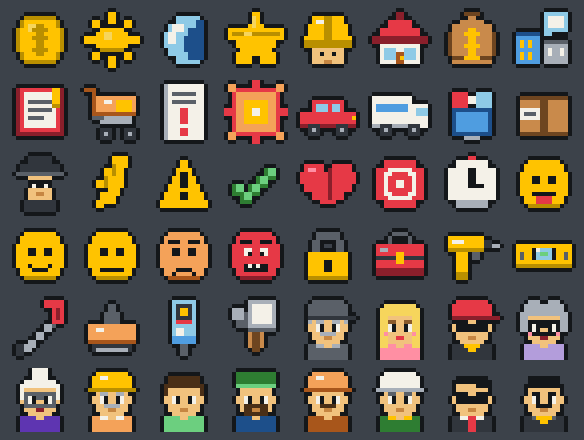
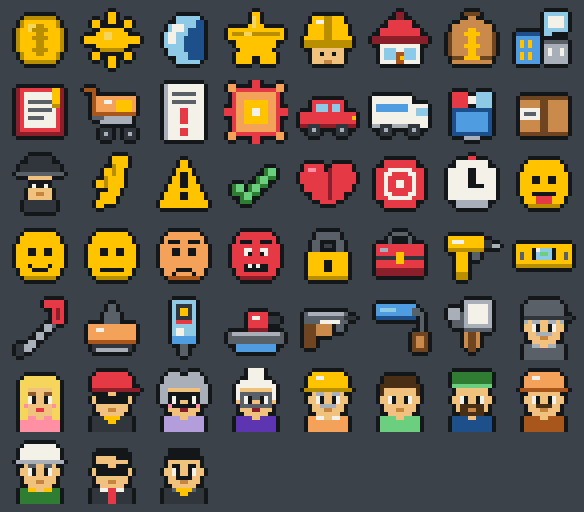
Drivers and tools in balance simulation, tool coverage for all jobs, pay scale retune, gameplay plan
Claude-Session: https://claude.ai/code/session_01UE8Y1PZ7tTwDRuFnCxBfdP

diff --git a/tools/balans2.js b/tools/balans2.js
@@ -4,7 +4,7 @@ const F = require('../prototypes/janusz/fuszerka.js'), C = require('../prototype
 const T = require('../prototypes/janusz/terminy.js'), B = require('../prototypes/janusz/bus.js'), Z = require('../prototypes/janusz/zmeczenie.js');
 const W = require('../prototypes/janusz/wypalenie.js'), K = require('../prototypes/janusz/klienci.js'), Sz = require('../prototypes/janusz/szkolenia.js'), U = require('../prototypes/janusz/ubezpieczenie.js'), O = require('../prototypes/janusz/osiedle.js');
 const J = require('../prototypes/janusz/jobs.js'), { JOBS, CLIENTS } = J, Sur = require('./niespodzianki.js');
-const E = require('../prototypes/janusz/ekipa.js'), Sw = require('../prototypes/janusz/swiat.js'), Fin = require('../prototypes/janusz/finanse.js');
+const Al = require('../prototypes/janusz/alledrogo.js'), E = require('../prototypes/janusz/ekipa.js'), Sw = require('../prototypes/janusz/swiat.js'), Fin = require('../prototypes/janusz/finanse.js');
 const lcg = s => () => (s = (s * 1664525 + 1013904223) % 4294967296) / 4294967296;
 const DAYS = 60;
 
@@ -15,9 +15,9 @@ function run(pol, seed) {
   let clock = start, money = pol.start != null ? pol.start : 500, fat = 10, burn = 0, bus = B.fresh(), rel = {}, certs = {}, oc = U.toggle(U.fresh(), !!pol.oc), stars = [], rival = 25, jobsDone = 0, hoursWorked = 0, waited = 0;
   const m = { jobs: 0, income: 0, costs: 0, claims: 0, breakdowns: 0, naps: 0, late: 0, lost: 0, sleeps: 0, cutsGiven: 0, certCost: 0, ocPaid: 0, ocRecv: 0, starsSum: 0, fatSum: 0 };
   const hq = () => Object.assign(SIT.fresh(), { tier, assets: { bus: busLvl } });
-  const rt = () => SIT.rating(hq(), hist, stars, 0, 0.3);
+  const rt = () => SIT.rating(hq(), hist, stars, 0, Al.toolScore(inv));
   const rating = () => rt().stars;
-  let pendingClaim = null, hist = [], crew = [], fin = Fin.fresh(), hired = 0, loanTried = 0; Object.assign(m, { wages: 0, interest: 0, quits: 0, loan: 0 });
+  let pendingClaim = null, hist = [], crew = [], fin = Fin.fresh(), hired = 0, loanTried = 0, inv = pol.tools === 'none' ? [] : [Al.starterKit()], market = null, orders = [], world = Sw.newWorld(); Object.assign(m, { toolBreaks: 0, toolSpend: 0, accidents: 0, accCost: 0, fines: 0, outJobs: 0, wages: 0, interest: 0, quits: 0, loan: 0 });
   const spend = (cat, v) => { money -= v; m.costs += v; };
   while (clock - start < DAYS * 1440) {
     // sen
@@ -41,6 +41,13 @@ function run(pol, seed) {
     }
     if (pol.crew && crew.length < (pol.crewMax || 2) && hired < E.CANDIDATES.length) { const c = E.CANDIDATES[hired]; if (money >= c.wage * 4 + 300) { money -= c.wage; m.costs += c.wage; crew.push(E.newWorker(c)); hired++; ev['ekipa: ' + c.name] = dayNow(); } }
     if (pol.loan && !loanTried) { const L = Fin.LENDERS[pol.loan], amt = Math.min(pol.loanAmt || L.max, L.max), t = Fin.takeLoan(fin, pol.loan, amt, rating()); if (t.ok) { fin = t.fin; money += t.cash; m.loan = t.cash; loanTried = 1; ev['pożyczka ' + L.id] = dayNow(); } }
+    if (pol.tools === 'buy' || pol.tools === 'shop') {
+      market = Al.refresh(market, Math.floor((clock - start) / 1440));
+      for (const it of inv.slice()) if (it.status !== 'sprawny' && money > Al.repairCost(it) * 2 + 150) { const rp = Al.repair(it, money, r); if (rp.ok) { money -= rp.cost; m.toolSpend += rp.cost; m.costs += rp.cost; inv = inv.map(x => x.id === it.id ? rp.item : x); } }
+      const have = new Set(inv.filter(x => x.status === 'sprawny').map(x => x.type).concat(orders.map(o => o.type)));
+      const cand = market.listings.filter(l => l.mode === 'buynow' && (pol.tools !== 'shop' || l.seller.kind === 'sklep') && !have.has(l.type) && money >= l.price + l.shipping + 250).sort((a, b) => (Al.TYPES[b.type].jobs.length * Al.TYPES[b.type].acc) / (b.price + b.shipping) - (Al.TYPES[a.type].jobs.length * Al.TYPES[a.type].acc) / (a.price + a.shipping))[0];
+      if (cand) { const bn = Al.buyNow(cand, money); if (bn.ok) { money -= bn.cost; m.toolSpend += bn.cost; m.costs += bn.cost; orders.push(bn.order); market = Al.removeListing(market, cand.id); } }
+    }
     // czekanie na telefon
     for (;;) { const night = C.isNight(clock + 60); const p = Math.min(0.6, J.callChance(night, rating(), waited) + (pol.noTrust ? 0 : Math.min(0.06, Object.values(rel).filter(x => x.trust >= 50).length * 0.02))); clock += 60; fat = Z.rest(fat, 60, false); if (r() < p && r() >= W.missCall(burn)) { waited = 0; break; } waited++; if (clock - start >= DAYS * 1440) break; }
     if (clock - start >= DAYS * 1440) break;
@@ -50,23 +57,39 @@ function run(pol, seed) {
     let price = 1;
     if (r() < K.contestChance(rival, O.strength({ rating: rating(), tier: 0 }), trust)) { const res = K.contest(pol.contest, trust, r); if (!res.won) { m.lost++; rival += 1.5; continue; } price = res.priceMult; if (price < 1) m.cutsGiven++; }
     const job = JOBS[call.job], cl = CLIENTS[call.client], md = C.mods(night), cm = Sz.modsFor(certs, job.id), dueSpec = due ? T.make(job.deadline, jobStart, due, night) : null;
-    // dojazd
+    // dojazd: bus + kierowca (właściciel, pomocnik albo kurier) z wypadkami i mandatami ze swiat.js
     let timeAdj = 3, transport = 0; const tm = Z.timeMult(fat) * W.timeMult(burn);
-    if (!bus.broken && B.rollBreakdown(bus, busLvl, night, r)) { m.breakdowns++; const res = B.resolve('laweta', bus, night, r); transport += res.cost; timeAdj += res.timeAdj; bus = res.bus; }
-    if (!bus.broken) bus = B.drive(bus, busLvl, night); else { transport += 70; timeAdj += 2; }
-    // robota
+    const drv = pol.driver || 'owner';
     let helper = null, hs = 'trzezwy', he = null;
     if (crew.length) { const w = crew.find(x => !(x.outJobs > 0)); if (w) { hs = Sw.rollState(w, { night, paydayEve: jobsDone % 3 === 2 }, r); if (E.attendance(w, r, { night }) === 'present') { helper = w; he = E.helperEffect(w, hs); } } }
+    world.night = night; world.accMult = SIT.effects(hq()).accMult;
+    const mode = drv === 'courier' ? 'courier' : drv === 'worker' && helper ? 'worker' : 'owner';
+    if (mode !== 'courier') {
+      if (!bus.broken && B.rollBreakdown(bus, busLvl, night, r)) { m.breakdowns++; const res = B.resolve('laweta', bus, night, r); transport += res.cost; timeAdj += res.timeAdj; bus = res.bus; }
+      if (!bus.broken) bus = B.drive(bus, busLvl, night); else { transport += 70; timeAdj += 2; }
+    }
+    if (!(mode !== 'courier' && bus.broken)) {
+      const dr = Sw.resolveDrive(mode === 'worker' ? helper : null, mode === 'worker' ? hs : 'trzezwy', world, mode, r);
+      transport += dr.cost; timeAdj += dr.timeAdj; Sw.tickWorld(world, dr.heatDelta);
+      if (dr.accident) { m.accidents++; m.accCost += dr.cost; } else if (dr.police) { m.fines += dr.cost; }
+      if (dr.claim) pendingClaim = dr.claim;
+      if (mode === 'worker' && dr.incident) { const out = Sw.applyAftermath(helper, 'ostrzez', dr); transport -= out.money || 0; if (out.worker) crew = crew.map(w => w.id === helper.id ? out.worker : w); }
+      if (mode === 'worker' && Object.keys(dr.driverPatch).length) { crew = crew.map(w => w.id === helper.id ? Object.assign({}, w, dr.driverPatch) : w); if (dr.driverPatch.outJobs) { m.outJobs++; helper = null; he = null; } }
+    }
+    // robota
     const style = dueSpec && dueSpec.kind === 'ostry' && pol.rushSkips ? 'mieszanie' : pol.style;
     const pick = i => style === 'solid' ? 'dobrze' : style === 'mieszanie' ? (i % 2 ? 'skrot' : 'dobrze') : 'fusz';
-    let defects = []; const tmH = he ? he.timeFactor : 1;
+    const tools = Al.forJob(inv, job.id); let working = tools.slice(), toolDefects = [];
+    for (const t of tools) if (r() < Al.failChance(t)) { working = working.filter(x => x.id !== t.id); inv = inv.map(x => x.id === t.id ? Al.breakItem(x) : x); m.toolBreaks++; timeAdj += 4; toolDefects.push({ label: 'narzędzie padło w trakcie roboty', sev: 1.5, vis: 0.5 }); }
+    const tb = Al.totalBonus(working);
+    let defects = toolDefects.slice(); const tmH = he ? he.timeFactor : 1;
     if (helper) { const sl = E.sloppy(helper, hs, r); if (sl) defects.push(sl); if (E.walksOut(helper, r)) { defects.push({ label: 'bałagan po ekipie', sev: 1.5, vis: 0.6 }); timeAdj += 6; crew = crew.map(w => w.id === helper.id ? Object.assign({}, w, { mood: Math.max(0, w.mood - 10) }) : w); } }
     if (r() < Z.nodChance(fat)) { defects.push({ label: 'zasnął', sev: 2, vis: 0.5 }); m.naps++; }
-    const picks = job.steps.map((s, i) => ({ stepId: s.id, optionId: pick(i), accuracy: Math.max(0, Math.min(1, 0.7 + W.accMod(burn) + (r() - 0.5) * 0.3 - (night ? md.accPenalty : 0) + Z.accMod(fat) + cm.acc + (he ? he.accBonus : 0))) }));
+    const picks = job.steps.map((s, i) => ({ stepId: s.id, optionId: pick(i), accuracy: Math.max(0, Math.min(1, 0.7 + W.accMod(burn) + (r() - 0.5) * 0.3 - (night ? md.accPenalty : 0) + Z.accMod(fat) + cm.acc + (he ? he.accBonus : 0) + tb.acc)) }));
     const rtNow = rt(), payMult = rtNow.payMult * md.payMult * (dueSpec ? dueSpec.pay : 1) * (pol.noTrust ? 1 : K.payMult(trust)) * cm.pay * price;
     const sur = pol.noSur ? { time: 0, cost: 0, defects: [] } : Sur.roll(job.id, style === 'mieszanie' ? 'mieszanie' : style === 'solid' ? 'solid' : 'fusz', r, tm);
     defects = defects.concat(sur.defects);
-    const res = F.evaluate(Object.assign({}, job, { base: Math.round(job.base * call.mult) }), picks, cl, { payMult, satBonus: rtNow.satBonus, attentionMult: md.attention, hazardMult: md.hazard * cm.hazard, time: sur.time + timeAdj + Math.round(job.steps.reduce((a, st, i) => a + st.options.find(o => o.id === pick(i)).time, 0) * (tm * tmH - 1) * 10) / 10, defects });
+    const res = F.evaluate(Object.assign({}, job, { base: Math.round(job.base * call.mult) }), picks, cl, { payMult, satBonus: rtNow.satBonus, attentionMult: md.attention, hazardMult: md.hazard * cm.hazard * tb.hazardMult, time: sur.time + timeAdj + Math.round(job.steps.reduce((a, st, i) => a + st.options.find(o => o.id === pick(i)).time, 0) * (tm * tmH * (1 - tb.time) - 1) * 10) / 10, defects });
     const minutes = C.minutes(Math.max(1, res.time), night), te = T.evaluate(dueSpec, minutes, res.payout);
     if (te.penalty) m.late++;
     const tax = res.payout * 0.1, income = res.payout + te.bonus;
@@ -76,7 +99,9 @@ function run(pol, seed) {
     if (pendingClaim && r() < 0.5) { const cv = U.cover(oc, pendingClaim); oc = cv.oc; money -= cv.you; m.costs += cv.you; m.claims += cv.you; m.ocRecv += cv.insurer; pendingClaim = null; }
     // koniec zlecenia
     clock = jobStart + minutes; fat = Z.gain(fat, minutes, night); burn = W.afterJob(burn, fat, night); m.burnSum = (m.burnSum || 0) + burn; hoursWorked += minutes / 60;
-    rel = K.afterJob(rel, call.client, res.stars, O.GOSSIP[call.client]); stars.push(res.stars); hist.push({ index: res.index }); hist = hist.slice(-12); crew = Sw.tickWorkers(crew); m.jobs++; m.starsSum += res.stars; m.fatSum += fat; jobsDone++;
+    rel = K.afterJob(rel, call.client, res.stars, O.GOSSIP[call.client]); for (const t of working) inv = inv.map(x => x.id === t.id ? Al.wear(x) : x);
+    { const dl = Al.tickOrders(orders, r); orders = dl.orders; for (const a of dl.arrived) { if (a.lost) money += Al.refundLost(a.order).refund; else inv.push(a.item); } }
+    stars.push(res.stars); hist.push({ index: res.index }); hist = hist.slice(-12); crew = Sw.tickWorkers(crew); m.jobs++; m.starsSum += res.stars; m.fatSum += fat; jobsDone++;
     if (jobsDone % 3 === 0) {
       if (crew.length) { const sg = E.sideGigs(crew, r); money += sg.total; m.income += sg.total; m.gigs = (m.gigs || 0) + sg.total; }
       if (crew.length) { const pay = pol.crew === 'skimp' ? Object.fromEntries(crew.map(w => [w.id, Math.round(w.wage * 0.6)])) : E.defaultPay(crew, Math.floor(money)); const ap = E.applyPay(crew, pay, { patienceBonus: 0 }); money -= ap.spent; m.costs += ap.spent; m.wages += ap.spent; crew = ap.workers; const before = crew.length; crew = crew.filter(w => (w.strikes || 0) < 2); m.quits += before - crew.length; }
@@ -84,7 +109,7 @@ function run(pol, seed) {
         if (money > Fin.debt(fin) * 1.5 + 600 && fin.loans.length) for (const l of fin.loans.slice()) { const rp = Fin.repay(fin, l.id, l.principal, Math.floor(money)); if (rp.ok) { fin = rp.fin; money -= rp.paid; } } } if (pol.progress) { const up = SIT.TIERS[tier].upkeep + busLvl * 0 + (busLvl ? SIT.ASSETS.bus.levels[busLvl - 1].upkeep : 0); money -= up; m.costs += up; } if (oc.active) { const pr = U.premium(oc); money -= pr; m.costs += pr; m.ocPaid += pr; } oc = U.decay(oc); rival += 1.2; }
     if (money < 0) money = 0;
   }
-  return { ev, crewN: crew.length, debt: Fin.debt(fin), net: money - Fin.debt(fin), rating: rt().stars, perDay: (money - (pol.start != null ? pol.start : 500)) / DAYS, perHour: m.income - m.costs > -1e9 ? (money - (pol.start != null ? pol.start : 500)) / Math.max(1, hoursWorked) : 0, m, money };
+  return { ev, inv: inv.length, crewN: crew.length, debt: Fin.debt(fin), net: money - Fin.debt(fin), rating: rt().stars, perDay: (money - (pol.start != null ? pol.start : 500)) / DAYS, perHour: m.income - m.costs > -1e9 ? (money - (pol.start != null ? pol.start : 500)) / Math.max(1, hoursWorked) : 0, m, money };
 }
 const avg = (a, f) => a.reduce((s, x) => s + f(x), 0) / a.length;
 function scenario(name, pol, N = 150) {
@@ -125,6 +150,13 @@ console.log('\n— pożyczki (start od zera, 60 dni; zysk netto = kasa minus dł
 sc2('bez pożyczki', base2); for (const [l, a] of [['kuzyn', 1500], ['bank', 5000], ['gienek', 3000]]) sc2('pożyczka: ' + l + ' ' + a + ' zł', Object.assign({}, base2, { loan: l, loanAmt: a }));
 console.log('\n— reputacja i fuszerka (prawdziwa ocena firmy z siedziby.js)');
 for (const [n2, st] of [['mieszany', 'mieszanie'], ['solidny', 'solid'], ['fuszerka', 'fusz']]) sc2('styl ' + n2, Object.assign({}, base2, { style: st, rushSkips: st !== 'solid' }));
+
+console.log('\n— kierowcy (wypadki i mandaty ze swiat.js) i narzędzia z Alledrogo');
+const sc3 = (name, pol, N = 100) => { const res = []; for (let i = 0; i < N; i++) res.push(run(pol, 1300 + i)); const g = f => avg(res, f);
+  console.log(name.padEnd(38), String(Math.round(g(x => x.perDay))).padStart(5), 'zł/d  ★', g(x => x.rating).toFixed(2), ' wypadki', g(x => x.m.accidents).toFixed(1).padStart(5), '(', Math.round(g(x => x.m.accCost)), 'zł) mandaty', Math.round(g(x => x.m.fines)).toString().padStart(5), ' wyp.ekipy', g(x => x.m.outJobs).toFixed(1), ' narzędzia: awarie', g(x => x.m.toolBreaks).toFixed(1), 'wydano', Math.round(g(x => x.m.toolSpend)), ' netto', Math.round(g(x => x.net))); };
+const crew2 = Object.assign({}, base2, { crew: 'fair', crewMax: 2 });
+sc3('kierowca: ty sam', Object.assign({}, crew2, { driver: 'owner' })); sc3('kierowca: pomocnik', Object.assign({}, crew2, { driver: 'worker' })); sc3('kierowca: kurier (70 zł)', Object.assign({}, crew2, { driver: 'courier' }));
+sc3('narzędzia: brak', Object.assign({}, base2, { tools: 'none' })); sc3('narzędzia: tylko zestaw startowy', Object.assign({}, base2, { tools: 'starter' })); sc3('narzędzia: kupuje wszędzie (okazje)', Object.assign({}, base2, { tools: 'buy' })); sc3('narzędzia: tylko ze sklepu (bezpiecznie)', Object.assign({}, base2, { tools: 'shop' }));
 
 }
 module.exports = { run, avg };

diff --git a/prototypes/janusz/alledrogo.js b/prototypes/janusz/alledrogo.js
@@ -18,19 +18,22 @@
   const between = (lo, hi, rng) => Math.round(lo + (hi - lo) * rng());
 
   /* Co wolno kupić. jobs = na jakie zlecenia pomaga. hazardMult = redukcja zagrożenia wad (np. miernik prądu). */
-  const ALL_JOBS = ['kran', 'sciana', 'gniazdko', 'polka'];
+  const ALL_JOBS = ['kran', 'sciana', 'gniazdko', 'polka', 'syfon', 'drzwi', 'plytki', 'grzejnik', 'okno', 'malowanie'];
   const TYPES = {
-    zestaw: { id: 'zestaw', name: 'Zestaw narzędzi ręcznych', jobs: ALL_JOBS, base: 150, acc: 0.05, time: 0.04, brands: ['Walizka majstra', 'Zestaw 100 elementów', 'Skrzynka „Złota rączka”'] },
-    wiertarka: { id: 'wiertarka', name: 'Wiertarka udarowa', jobs: ['polka', 'sciana'], base: 180, acc: 0.07, time: 0.05, brands: ['Turbo-Wiert 3000', 'Hammer-Max', 'Ryś Pro'] },
-    poziomica: { id: 'poziomica', name: 'Poziomica laserowa', jobs: ['polka'], base: 120, acc: 0.10, time: 0.04, brands: ['Laser-Prosto', 'Libelka X', 'Równo.pl'] },
-    klucze: { id: 'klucze', name: 'Klucze do rur', jobs: ['kran'], base: 90, acc: 0.08, time: 0.06, brands: ['Hydro-Klucz', 'Rurman', 'Zestaw „Złota rączka”'] },
-    szlifierka: { id: 'szlifierka', name: 'Szlifierka do gipsu', jobs: ['sciana'], base: 220, acc: 0.08, time: 0.06, brands: ['Gładź-Max', 'Szlif-Turbo', 'Pyłomat'] },
-    probnik: { id: 'probnik', name: 'Miernik napięcia', jobs: ['gniazdko'], base: 110, acc: 0.08, time: 0.04, hazardMult: 0.6, brands: ['Volt-Test', 'Prąd-Stop', 'Mierzymy.pl'] },
-    szpachle: { id: 'szpachle', name: 'Zestaw szpachli', jobs: ['sciana'], base: 40, acc: 0.05, time: 0.03, brands: ['Szpachlarz', 'Gładko', 'Zestaw 12w1'] },
+    zestaw: { id: 'zestaw', name: 'Zestaw narzędzi ręcznych', jobs: ALL_JOBS, base: 150, acc: 0.075, time: 0.06, brands: ['Walizka majstra', 'Zestaw 100 elementów', 'Skrzynka „Złota rączka”'] },
+    wiertarka: { id: 'wiertarka', name: 'Wiertarka udarowa', jobs: ['polka', 'sciana', 'drzwi', 'okno'], base: 180, acc: 0.105, time: 0.075, brands: ['Turbo-Wiert 3000', 'Hammer-Max', 'Ryś Pro'] },
+    poziomica: { id: 'poziomica', name: 'Poziomica laserowa', jobs: ['polka', 'plytki', 'drzwi'], base: 120, acc: 0.15, time: 0.06, brands: ['Laser-Prosto', 'Libelka X', 'Równo.pl'] },
+    klucze: { id: 'klucze', name: 'Klucze do rur', jobs: ['kran', 'syfon', 'grzejnik'], base: 90, acc: 0.12, time: 0.09, brands: ['Hydro-Klucz', 'Rurman', 'Zestaw „Złota rączka”'] },
+    szlifierka: { id: 'szlifierka', name: 'Szlifierka do gipsu', jobs: ['sciana', 'drzwi', 'malowanie'], base: 220, acc: 0.12, time: 0.09, brands: ['Gładź-Max', 'Szlif-Turbo', 'Pyłomat'] },
+    probnik: { id: 'probnik', name: 'Miernik napięcia', jobs: ['gniazdko'], base: 110, acc: 0.12, time: 0.06, hazardMult: 0.6, brands: ['Volt-Test', 'Prąd-Stop', 'Mierzymy.pl'] },
+    przecinarka: { id: 'przecinarka', name: 'Przecinarka do płytek', jobs: ['plytki'], base: 260, acc: 0.135, time: 0.09, brands: ['Tnij-Prosto', 'Glazur-Max', 'Płytkomat'] },
+    pistolet: { id: 'pistolet', name: 'Pistolet do silikonu', jobs: ['okno', 'syfon', 'plytki'], base: 60, acc: 0.09, time: 0.06, brands: ['Silikon-Strzał', 'Fuga-Pro', 'Uszczelniacz 3000'] },
+    walki: { id: 'walki', name: 'Wałki i pędzle', jobs: ['malowanie'], base: 70, acc: 0.12, time: 0.075, brands: ['Malarz Pro', 'Zestaw „Pędzel i wałek”', 'Kolor-Max'] },
+    szpachle: { id: 'szpachle', name: 'Zestaw szpachli', jobs: ['sciana', 'malowanie', 'plytki'], base: 40, acc: 0.075, time: 0.045, brands: ['Szpachlarz', 'Gładko', 'Zestaw 12w1'] },
   };
   const CLASSES = [
-    { id: 'nowe', name: 'nowe', price: 1.0, cond: [100, 100], life: [40, 60] },
-    { id: 'jak_nowe', name: 'jak nowe', price: 0.8, cond: [88, 100], life: [20, 40] },
+    { id: 'nowe', name: 'nowe', price: 1.0, cond: [100, 100], life: [80, 120] },
+    { id: 'jak_nowe', name: 'jak nowe', price: 0.8, cond: [88, 100], life: [40, 80] },
     { id: 'uzywane', name: 'używane', price: 0.55, cond: [55, 90], life: [8, 20] },
     { id: 'po_przejsciach', name: 'po przejściach', price: 0.3, cond: [25, 60], life: [2, 9] },
     { id: 'na_czesci', name: 'na części', price: 0.12, cond: [0, 20], life: [0, 1] },
@@ -154,7 +157,7 @@
   const effTier = item => (item.fake ? Math.max(1, item.tier - 1) : item.tier);
   /* Premia narzędzia do zlecenia. */
   function bonus(item) {
-    if (item.status !== 'sprawny') return { acc: 0, time: 0, hazardMult: 1 };
+    if (item.status !== 'sprawny') return { acc: 0.0, time: 0.0, hazardMult: 1 };
     const T = TYPES[item.type], f = TIER_MULT[effTier(item) - 1] * (0.5 + 0.5 * clamp(item.cond, 0, 100) / 100);
     return { acc: T.acc * f, time: T.time * f, hazardMult: T.hazardMult || 1 };
   }

diff --git a/tests/alledrogo.test.js b/tests/alledrogo.test.js
@@ -167,11 +167,11 @@ t('opłacalność: używane po przejściach bywają okazją albo pułapką, stat
 });
 
 t('jeden system narzędzi: zestaw ręczny pasuje do wszystkich zleceń, makeItem tworzy sprawny przedmiot', () => {
-  assert.deepStrictEqual(A.TYPES.zestaw.jobs, ['kran', 'sciana', 'gniazdko', 'polka']);
+  assert.deepStrictEqual(A.TYPES.zestaw.jobs, A.ALL_JOBS); assert(A.ALL_JOBS.length >= 10);
   const it = A.makeItem({ brand: 'Walizka dziadka', tier: 2, cond: 65 });
   assert(it.status === 'sprawny' && it.unboxed && it.uses === 0 && it.cond === 65 && it.id > 100000);
   assert(A.makeItem({}).id !== A.makeItem({}).id);
-  for (const j of ['kran', 'sciana', 'gniazdko', 'polka']) assert.strictEqual(A.forJob([it], j).length, 1, j);
+  for (const j of A.ALL_JOBS) assert.strictEqual(A.forJob([it], j).length, 1, j);
 });
 
 t('pokrycie i jakość ekwipunku: więcej i lepsze narzędzia dają wyższy wynik, zepsute nie liczą się', () => {
@@ -194,7 +194,7 @@ t('serwis: sprawne wraca do 100%, zepsute naprawia się z 60% szansą i traci uk
 
 t('zestaw startowy: tani, pasuje do wszystkich zleceń, daje małą premię i szybko się zużywa; walizka dziadka jest lepsza', () => {
   const kit = A.starterKit(), suitcase = A.makeItem({ tier: 2, cond: 65, brand: 'Walizka dziadka', life: 25 });
-  for (const j of ['kran', 'sciana', 'gniazdko', 'polka']) assert.strictEqual(A.forJob([kit], j).length, 1, j);
+  for (const j of A.ALL_JOBS) assert.strictEqual(A.forJob([kit], j).length, 1, j);
   assert(kit.status === 'sprawny' && kit.unboxed && kit.tier === 1);
   assert(A.toolScore([kit]) > 0 && A.toolScore([kit]) < A.toolScore([suitcase]));
   assert(A.value(kit) < 100, 'wartość ' + A.value(kit));
@@ -204,4 +204,9 @@ t('zestaw startowy: tani, pasuje do wszystkich zleceń, daje małą premię i sz
   assert(A.starterKit().id !== A.starterKit().id);
 });
 
+t('narzędzia pokrywają wszystkie roboty z jobs.js, a każda specjalistyczna robota ma swoje narzędzie', () => {
+  const { JOBS } = require('../prototypes/janusz/jobs.js');
+  assert.deepStrictEqual(A.ALL_JOBS.slice().sort(), Object.keys(JOBS).sort());
+  for (const id of Object.keys(JOBS)) assert(Object.values(A.TYPES).filter(T => T.id !== 'zestaw' && T.jobs.indexOf(id) >= 0).length >= 1, 'brak narzędzia dla ' + id);
+});
 console.log('\n' + n + ' testów przeszło');

diff --git a/prototypes/janusz/pixel.js b/prototypes/janusz/pixel.js
@@ -80,6 +80,9 @@
     klucze: () => mk(16, 16, [R('r', 9, 1, 5, 2), R('r', 11, 2, 3, 5), R('G', 10, 7, 2, 1), R('g', 9, 7, 2, 2), R('g', 7, 9, 2, 2), R('g', 5, 11, 2, 2), R('g', 3, 12, 3, 2), R('d', 2, 12, 2, 3), R('R', 12, 3, 1, 3)]),
     szlifierka: () => mk(16, 16, [R('o', 2, 7, 12, 5), R('O', 2, 11, 12, 1), R('d', 3, 12, 10, 2), R('g', 4, 13, 8, 1), R('G', 6, 4, 4, 3), R('G', 7, 2, 2, 2), R('w', 4, 8, 2, 1)]),
     probnik: () => mk(16, 16, [R('c', 5, 1, 6, 11), R('b', 5, 10, 6, 2), R('d', 6, 2, 4, 4), R('y', 7, 3, 2, 2), R('G', 7, 12, 2, 3), R('r', 6, 6, 4, 1), R('w', 6, 8, 2, 2)]),
+    przecinarka: () => mk(16, 16, [R('G', 1, 9, 14, 3), R('g', 2, 9, 12, 1), R('r', 6, 4, 5, 5), R('R', 6, 8, 5, 1), R('d', 11, 5, 3, 2), R('w', 7, 5, 2, 1), R('b', 3, 12, 10, 2)]),
+    pistolet: () => mk(16, 16, [R('G', 2, 4, 11, 3), R('g', 3, 4, 9, 1), R('d', 12, 5, 3, 1), R('T', 2, 7, 3, 6), R('t', 5, 7, 4, 3), R('w', 6, 6, 5, 1), R('G', 10, 7, 2, 2)]),
+    walki: () => mk(16, 16, [R('b', 2, 2, 10, 4), R('B', 2, 5, 10, 1), R('c', 3, 3, 4, 1), R('G', 11, 3, 2, 2), R('G', 13, 4, 1, 6), R('T', 11, 9, 4, 5), R('t', 12, 10, 2, 3)]),
     szpachle: () => mk(16, 16, [R('g', 6, 1, 7, 8), R('w', 7, 2, 5, 5), R('G', 6, 8, 7, 1), R('T', 7, 9, 2, 5), R('t', 6, 9, 1, 4), R('t', 9, 9, 1, 4), R('G', 3, 4, 3, 4), R('g', 2, 3, 3, 3)]),
   };
 

diff --git a/prototypes/janusz/jobs.js b/prototypes/janusz/jobs.js
@@ -310,7 +310,7 @@
   };
 
   /* Skala wypłat: jedno pokrętło tempa progresji. Wszystkie stawki bazowe robót są mnożone przez nią przy wczytaniu. */
-  const PAY_SCALE = 1.25;
+  const PAY_SCALE = 1.4;
   for (const j of Object.values(JOBS)) j.base = Math.round(j.base * PAY_SCALE);
 
   /* Niespodzianki w trakcie roboty: po ukończeniu kroku `after` (od 0) z szansą `chance` wychodzi problem, który trzeba rozwiązać.

diff --git a/PLAN_ROZGRYWKI.md b/PLAN_ROZGRYWKI.md
@@ -1,0 +1,42 @@
+# Plan: dłuższa i bardziej rozbudowana rozgrywka (Janusz Biznesu)
+
+Stan na teraz: 10 rodzajów robót (4–6 kroków, 3–5 minut każda), niespodzianki z łańcuchami, siedziba, ekipa, bus, narzędzia, pożyczki, noc i terminy.
+Brakuje: długich celów w obrębie jednej sesji, wyborów strategicznych między zleceniami i powodu, by wracać po miesiącach gry.
+Symulacje (`tools/balans*.js`, `tools/tempo.js`) dają solidną podstawę do strojenia każdej fazy.
+
+## Faza A: Kontrakty (dłuższe poziomy) — największy zysk
+Kontrakt = kilka robót u jednego klienta w kolejnych dniach (np. „Remont łazienki”: hydraulik → płytki → drzwi → malowanie → odbiór).
+- **Dane:** `kontrakty.js`: lista etapów (id roboty, dzień względny, zależności), zaliczka, transze, kara za opóźnienie całości, premia za odbiór bez poprawek. Czysta logika + testy.
+- **Przebieg:** klient daje zaliczkę (część kasy z góry, to ratuje płynność), każdy etap to normalna robota (istniejące kroki i niespodzianki), pasek postępu kontraktu, wynik końcowy to średnia ocen etapów i zgłoszone usterki z wcześniejszych etapów (ukryte wady z płytek wychodzą przy malowaniu).
+- **Nowe decyzje:** kolejność etapów, ekipa przydzielona do etapu, czy brać drugi kontrakt równolegle, rezygnacja (kara).
+- **Długość:** kontrakt 3–5 etapów ≈ 15–25 minut gry. Poziomy z listy zostają jako szybkie zlecenia.
+- **Test akceptacji:** `tests/kontrakty.test.js`, symulacja: kontrakt opłaca się o 10–20% lepiej na godzinę niż pojedyncze zlecenia, ale z wyższą wariancją (kary).
+
+## Faza B: Równoległa ekipa i plan dnia
+- Ekipa wykonuje proste zlecenia bez gracza (jakość z umiejętności, nastroju i trzeźwości, wynik z `fuszerka.js`), gracz bierze trudne.
+- Kalendarz dnia z oknami czasowymi, dojazd zajmuje czas zależnie od lokalizacji (osiedle, miasto, wieś).
+- Test akceptacji: symulacja `tempo.js` z ekipą pokazuje przyspieszenie progresji o 20–40% bez zabicia roli gracza.
+
+## Faza C: Specjalizacje i przetargi
+- Drzewko umiejętności (hydraulika, elektryka, wykończenia, stolarka): kursy z `szkolenia.js` odblokowują kontrakty tego typu i przetargi.
+- Przetargi publiczne (szkoła, urząd): wymagają uprawnień i oceny firmy, płacą dużo, mają audyt jakości i kary. Daje cel dla siedziby 4–5.
+
+## Faza D: Rok i prestiż
+- Podsumowanie roku (grudzień): bilans, ranking osiedla, nagrody. „Nowa Gra+”: powrót z bonusem reputacji, nowa mapa/dzielnica.
+- Wydarzenia sezonowe (zima: awarie ogrzewania, lato: remonty) jako okna premii.
+
+## Kolejność i szacunek pracy
+A (2–3 sesje) → B (2) → C (2) → D (1). Po każdej: testy, symulacja, aktualizacja `JANUSZ_GDD.md`.
+
+# Jak to zrobić taniej (tokeny)
+
+1. **Najpierw specyfikacja, potem jedna sesja na fazę.** Ten plik jest kontekstem: nowa sesja czyta `AGENTS.md` + ten plik zamiast całej historii.
+2. **Dane zamiast kodu.** Nowa robota to głównie tekst opcji: trzymać w kompaktowej tabeli (`id | etykieta | czas | koszt | wady | fx`) i generować `jobs.js` skryptem. Daje to 3–5× mniej tokenów na robotę. Do zrobienia: `tools/nowa_robota.js` (tabela → JOBS + szkielet sceny + testy).
+3. **Sceny tylko wtedy, gdy trzeba.** Scena pixel art to najdroższy element. Dla kolejnych robót użyć wspólnych „klocków” (pokój + obiekt + znacznik stanu) albo tylko 2–3 stanów zamiast 12.
+4. **Jeden duży patch z asercjami zamiast wielu małych edycji** i czytanie plików fragmentami (`sed -n`, `grep -n`), nie w całości.
+5. **Wyniki symulacji do plików, w czacie tylko różnica** („przed/po” dla jednej liczby).
+6. **Zrzuty ekranu rzadziej i mniejsze:** bez `fullPage`, szerokość 400, tylko po zmianach UI/scen. Testy w Node (bez przeglądarki) wystarczają dla logiki.
+7. **Tańszy model do rutyny** (teksty, dane, dopisanie niespodzianek), droższy do architektury i balansu.
+8. **Krótkie odpowiedzi.** Podsumowania po 5–8 punktów, bez powtarzania całej historii.
+9. **Podział na zadania:** osobna sesja na UI, osobna na dane, osobna na symulacje (każda z krótkim kontekstem).
+10. **Testy jako kontrakt:** gdy testy pilnują schematu (np. `roboty.test.js`), błędy wychodzą od razu, bez długich ręcznych sprawdzeń.

diff --git a/JANUSZ_GDD.md b/JANUSZ_GDD.md
@@ -213,7 +213,7 @@ Bot gra 60 dni gry, 150 przebiegów na scenariusz. Po strojeniu: sen przy 60–8
 - Symulacje (`tools/balans.js`, `tools/balans2.js`) uwzględniają niespodzianki (`--bez-niespodzianek` je wyłącza, `--style-table` pokazuje stawki wg stylu). Z niespodziankami solidna praca przewyższa mieszaną w większości robót, a zarobek dnia spada ok. 40%.
 
 ## Tempo progresji (`node tools/tempo.js`, wyniki w `tools/tempo_wyniki.txt`)
-- Jedno pokrętło: `PAY_SCALE = 1.25` w `jobs.js` mnoży wszystkie stawki robót. Po dodaniu niespodzianek zarobek spadł o ok. 40%, więc podniosłem stawki o 25%.
+- Jedno pokrętło: `PAY_SCALE = 1.4` (było 1.25, po dodaniu wypadków kierowców i narzędzi do symulacji) w `jobs.js` mnoży wszystkie stawki robót. Po dodaniu niespodzianek zarobek spadł o ok. 40%, więc podniosłem stawki o 25%.
 - Bot (mieszany styl, kursy najpierw, potem siedziba i bus), mediany dnia gry: pierwszy kurs dzień 1, wszystkie kursy ok. dzień 9, 1000 zł dzień 8, Blaszak (1200 zł) dzień 9, bus 1 dzień 12, Rudera dzień 15, bus 2 dzień 23, Biuro z placem dzień 35, bus 3 dzień 58, Hala z biurem dzień 95, Siedziba przy obwodnicy dzień ok. 200.
 - Solidny styl wychodzi tak samo szybko jak mieszany (dzień 9 / 14 / 36 / 99), więc uczciwość nie spowalnia progresji.
 - Bot nie modeluje ekipy, długów ani efektów wyższych poziomów siedziby poza +4% wypłaty na poziom, więc prawdziwy gracz może iść szybciej.
@@ -223,3 +223,9 @@ Bot gra 60 dni gry, 150 przebiegów na scenariusz. Po strojeniu: sen przy 60–8
 - **Ekipa:** pomocnik skraca robotę (współczynnik czasu 0,17 · umiejętności, było 0,12), a fuchy ekipy płacą (100 + 200 · umiejętności) · nastrój. Zysk wobec pracy solo: 1 pomocnik +6%, 2 pomocników +13%, 4 pomocników +15% (malejące korzyści). Pensje wypłacane w 60% kończą się odejściem całej ekipy i stratą ok. 3%.
 - **Pożyczki:** oprocentowanie na dzień wypłaty: bank 3% (od oceny 2,5 ★, limit 5000), kuzyn 5% (1500), pan Gienek 18% (3000). Dług rośnie najwyżej do dwukrotności limitu. W symulacji pożyczki nie przyspieszają progresji: inwestycje (kursy ok. +15%, siedziba +4% na poziom) zwracają się wolniej niż odsetki, więc pożyczka to ratunek, nie droga do bogactwa. Gienek to pułapka: 39 z 60 przebiegów dociera do 2. poziomu siedziby, a do 3. tylko 6.
 - Wyniki: `tools/tempo_ekipa_wyniki.txt` (EKIPA=fair:2), `tools/tempo_pozyczka_wyniki.txt` (POZYCZKA=bank:5000).
+
+## Wypadki kierowców i narzędzia w symulacji
+- Symulacja (`tools/balans2.js`) używa teraz `swiat.js` (wypadki, mandaty, pijany kierowca, wypadnięcie ekipy z gry) i `alledrogo.js` (zakupy, zużycie, awarie, serwis). Kierowca: sam +0%, pomocnik −21% (ok. 10 wypadków i 3 tys. zł mandatów na 60 dni), kurier −15%. Kierowanie samemu jest najlepsze, pomocnik opłaca się tylko trzeźwy.
+- Odkrycie: narzędzia z Alledrogo obejmowały tylko 4 pierwsze roboty. Dodano pokrycie dla wszystkich 10 (`ALL_JOBS`) oraz trzy nowe narzędzia: przecinarka do płytek, pistolet do silikonu, wałki i pędzle (z ikonami).
+- Narzędzia były nieopłacalne (zakup przynosił −3,6% netto). Premie ×1,5, trwałość nowych i „jak nowych” ×2: teraz kupno tylko ze sklepu daje ok. +5,6% netto, kupowanie „okazji” wszędzie jest neutralne (ale daje wyższą ocenę firmy), a sam zestaw startowy ok. +0,5%.
+- Plan dłuższej rozgrywki i wskazówki, jak pracować taniej: `PLAN_ROZGRYWKI.md`.

diff --git a/AGENTS.md b/AGENTS.md
@@ -18,7 +18,7 @@ GODOT=/ścieżka/do/godot ./tests/run.sh
 ```
 Godot 4.4.1 headless wystarcza (bez edytora). Testy muszą przechodzić przed każdym commitem.
 Dodatkowo test dymny prototypu: `godot --headless --path . --script tests/smoke_game.gd`.
-Moduły prototypu Janusza: `node tests/fuszerka.test.js` (ocena fuszerki) i `node tests/ekipa.test.js` (ekipa i płace) `node tests/swiat.test.js` (ryzyko, kierowcy, pamięć), `node tests/siedziba.test.js` (siedziba, kradzieże, zużycie) `node tests/moduly.test.js` (kalendarz, umowa, finanse, osiedle, fabuła) `node tests/alledrogo.test.js` (giełda narzędzi) i `node tests/pixel.test.js` (sprite'y) i `node tests/scenes.test.js` (sceny pixel art) i `node tests/zegar.test.js` (zegar, noc, księga miesiąca, stawka godzinowa) i `node tests/terminy_bus.test.js` (terminy, awarie busa) i `node tests/mechaniki.test.js` (zmęczenie, stali klienci i rywal, szkolenia, OC) i `node tests/roboty.test.js` (schemat robót, niespodzianki, poziomy). Symulacje balansu: `node tools/balans.js` (noc kontra dzień) i `node tools/balans2.js` (nowe mechaniki) i `node tools/tempo.js` (tempo progresji: kiedy bot kupuje siedzibę, kursy, bus). Eksport grafik: `node tools/export_pixel.js`. Opis UI: `UI.md`.
+Moduły prototypu Janusza: `node tests/fuszerka.test.js` (ocena fuszerki) i `node tests/ekipa.test.js` (ekipa i płace) `node tests/swiat.test.js` (ryzyko, kierowcy, pamięć), `node tests/siedziba.test.js` (siedziba, kradzieże, zużycie) `node tests/moduly.test.js` (kalendarz, umowa, finanse, osiedle, fabuła) `node tests/alledrogo.test.js` (giełda narzędzi) i `node tests/pixel.test.js` (sprite'y) i `node tests/scenes.test.js` (sceny pixel art) i `node tests/zegar.test.js` (zegar, noc, księga miesiąca, stawka godzinowa) i `node tests/terminy_bus.test.js` (terminy, awarie busa) i `node tests/mechaniki.test.js` (zmęczenie, stali klienci i rywal, szkolenia, OC) i `node tests/roboty.test.js` (schemat robót, niespodzianki, poziomy). Symulacje balansu: `node tools/balans.js` (noc kontra dzień) i `node tools/balans2.js` (nowe mechaniki) i `node tools/tempo.js` (tempo progresji: kiedy bot kupuje siedzibę, kursy, bus). Eksport grafik: `node tools/export_pixel.js`. Opis UI: `UI.md`. Plan dalszej rozgrywki i oszczędność tokenów: `PLAN_ROZGRYWKI.md`.
 
 ## Workflow
 1. Mała zmiana → test → zielone → commit.
